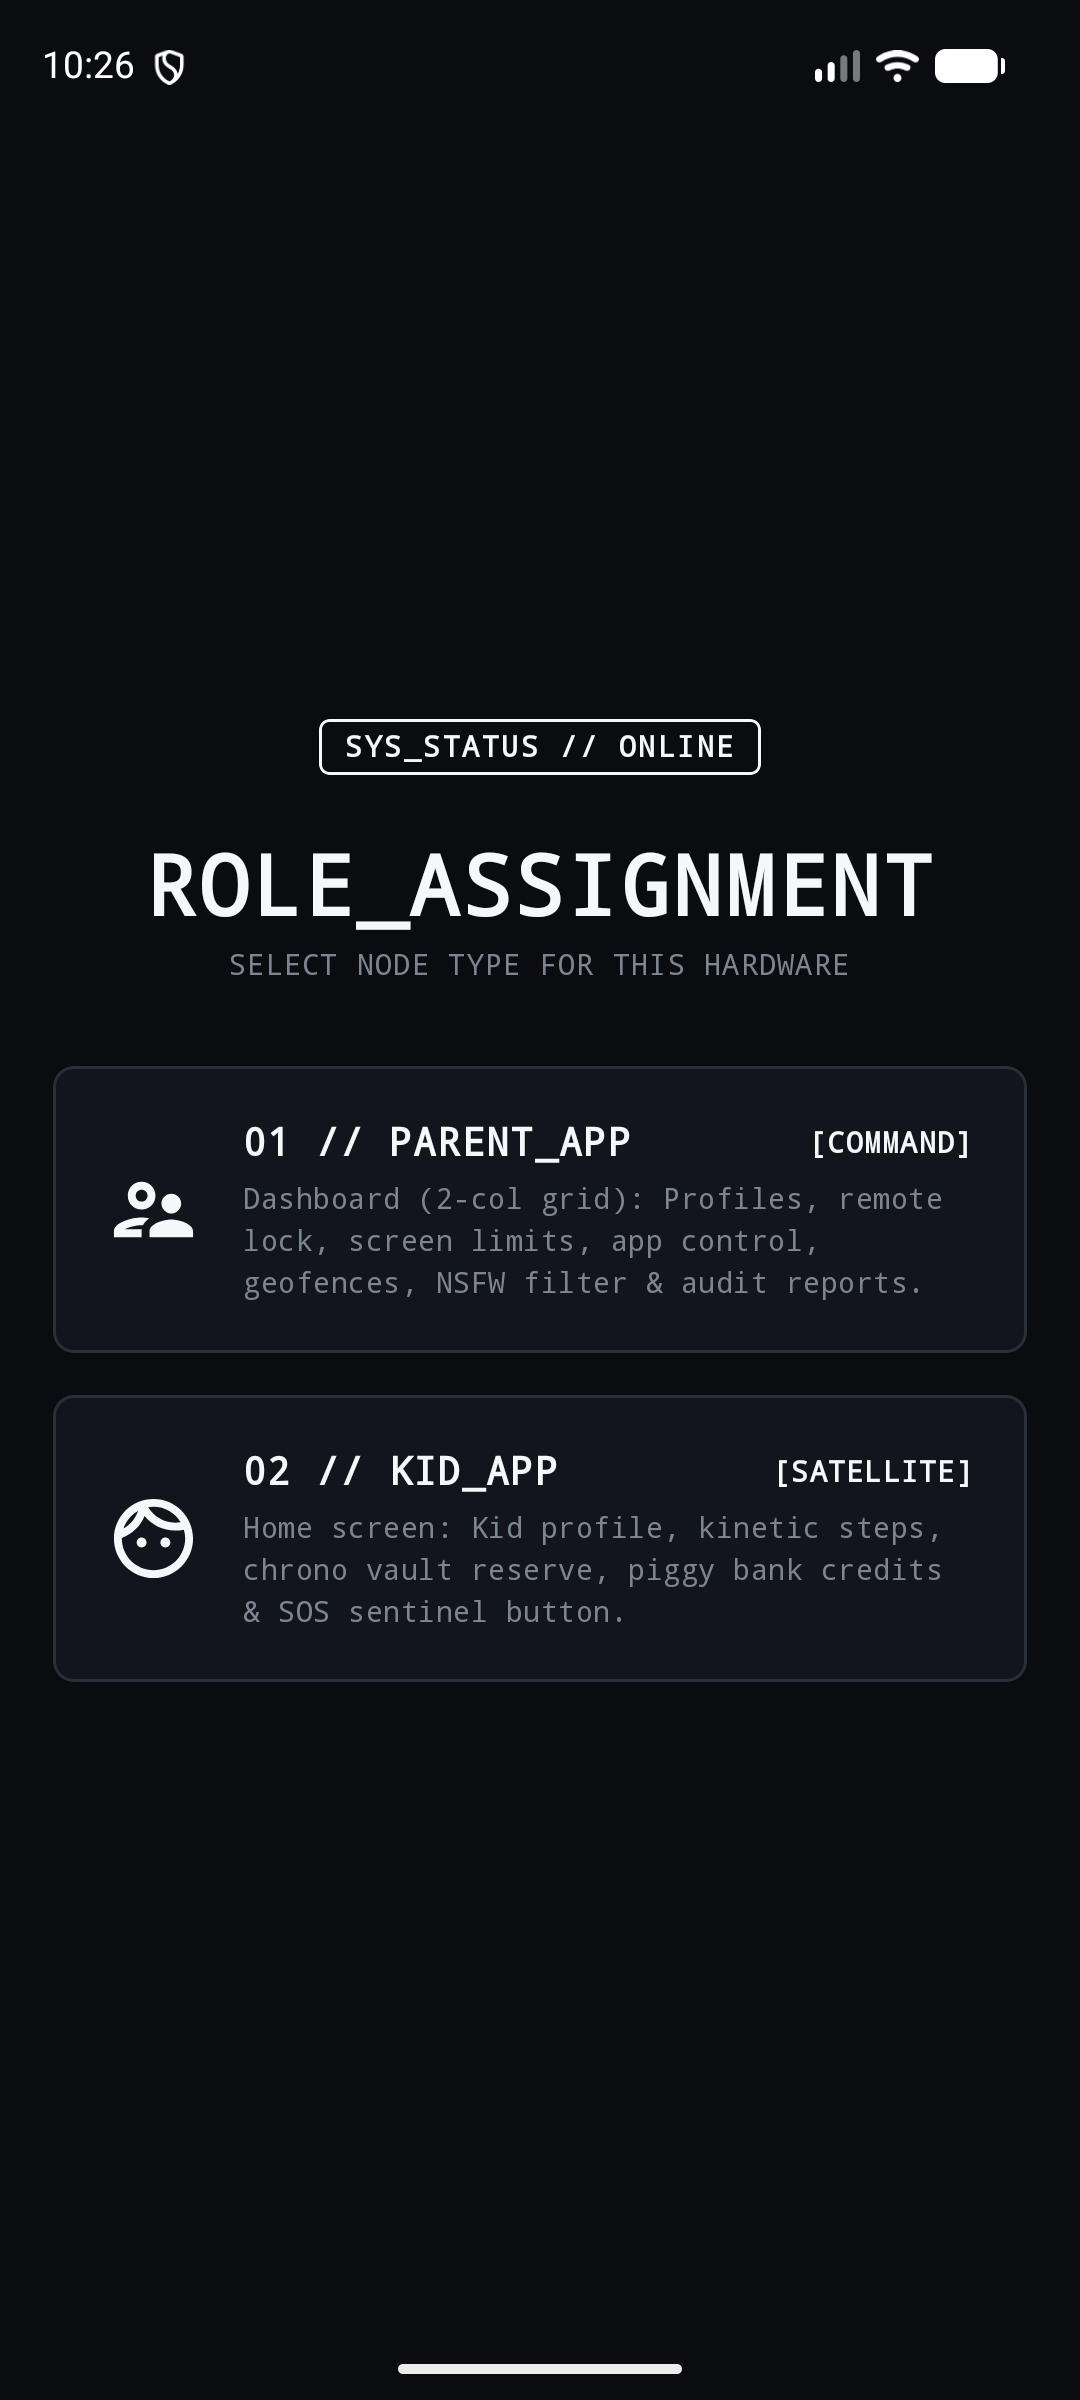
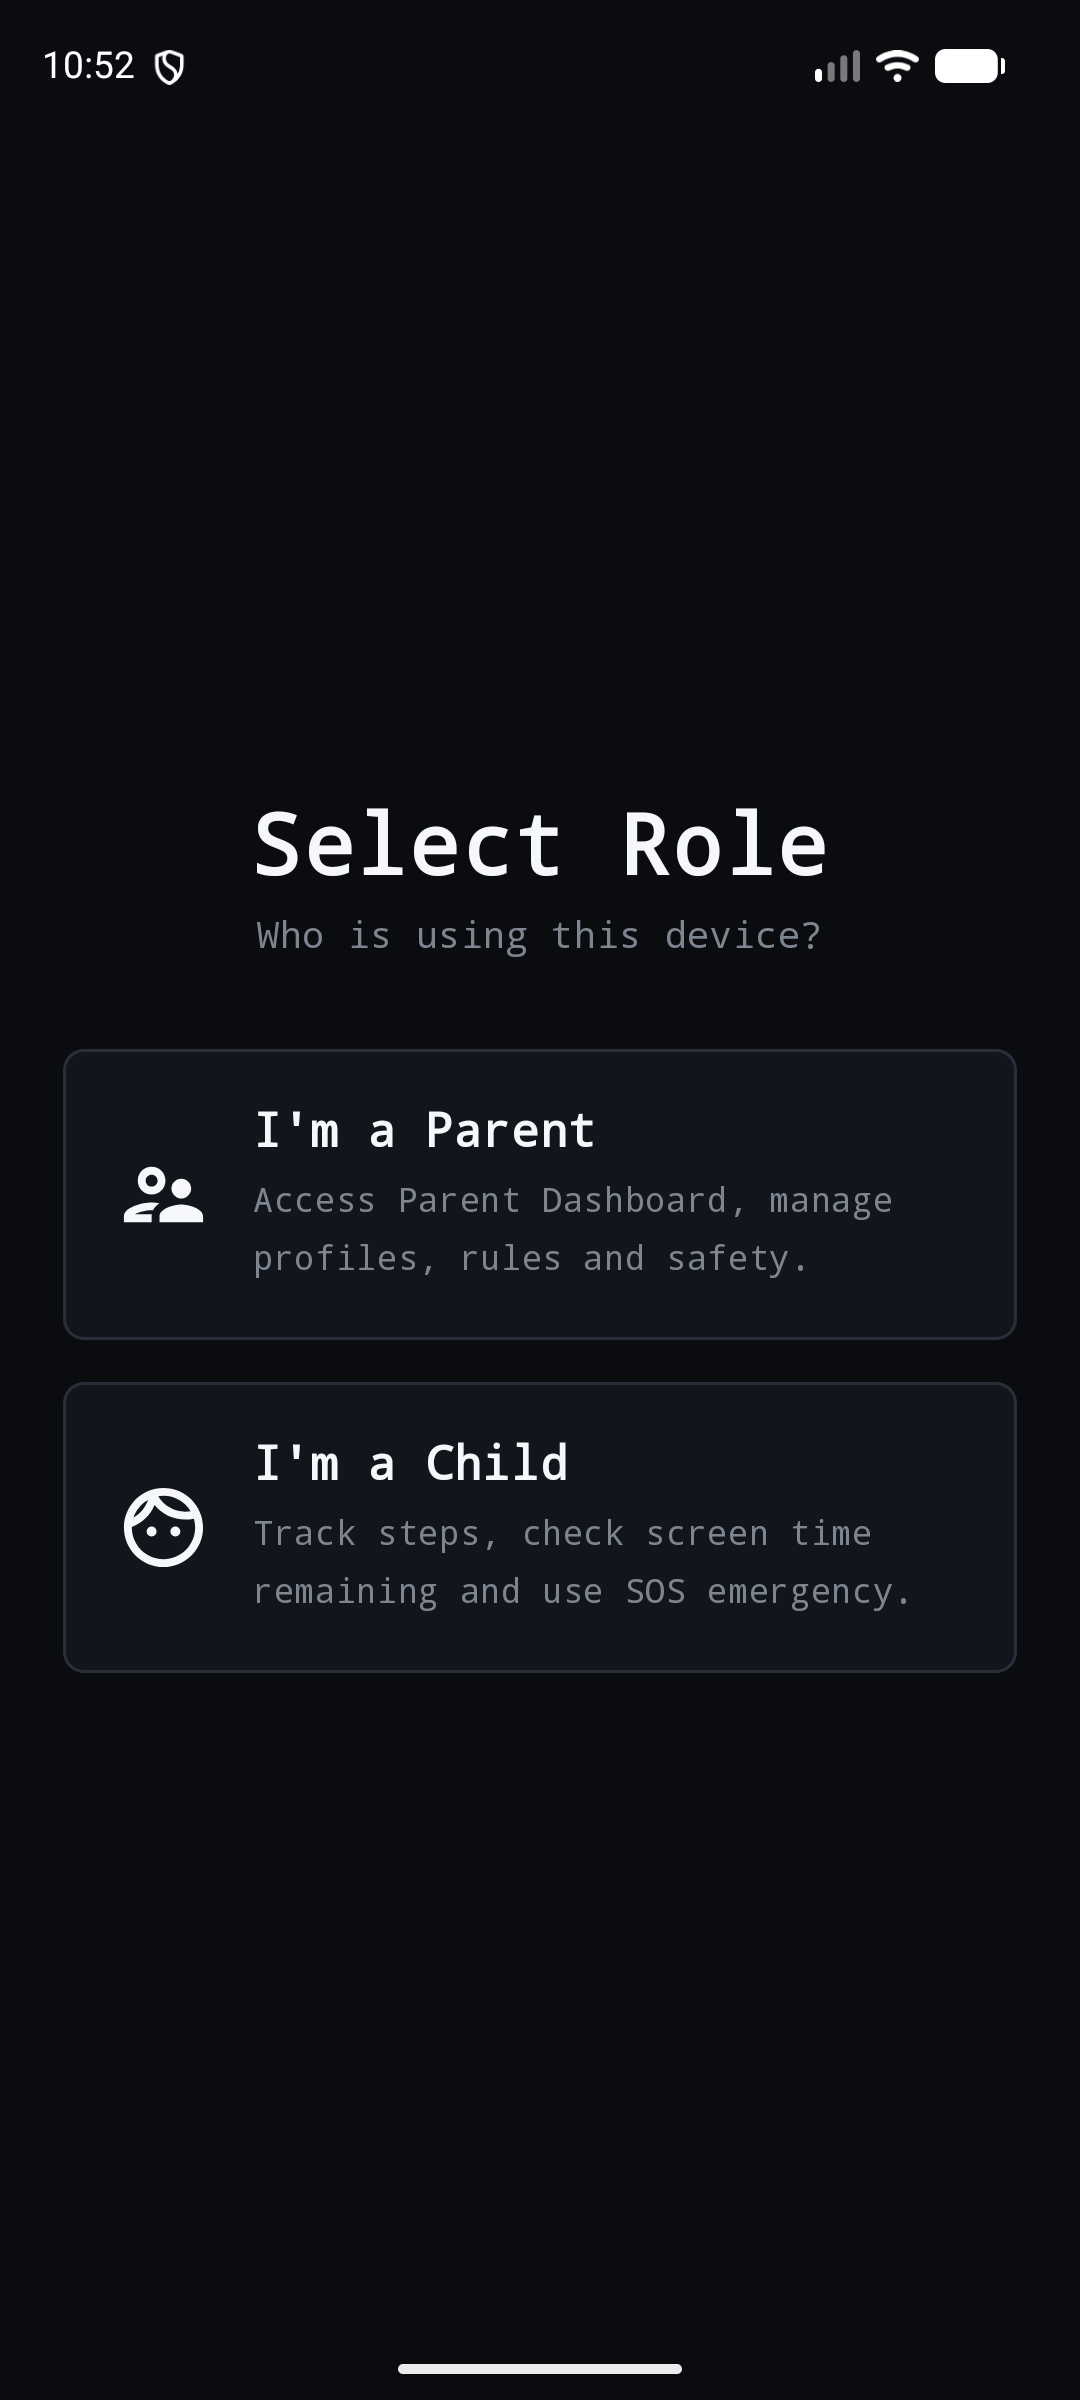
docs & ui: embed app screenshots and architecture diagrams in README, clean Child registration UI, remove private prompt files

diff --git a/app/src/main/java/com/nestcheck/app/ui/common/LoginScreen.kt b/app/src/main/java/com/nestcheck/app/ui/common/LoginScreen.kt
@@ -80,7 +80,7 @@ fun LoginScreen(
             modifier = Modifier.padding(top = 2.dp, bottom = 20.dp)
         )
 
-        // IF REGISTERING: TOGGLE BETWEEN PARENT AND STUDENT
+        // IF REGISTERING: TOGGLE BETWEEN PARENT AND CHILD
         if (uiState.isRegistering) {
             Row(
                 modifier = Modifier
@@ -109,19 +109,19 @@ fun LoginScreen(
                     )
                 }
 
-                // Register as Student
+                // Register as Child
                 Box(
                     modifier = Modifier
                         .weight(1f)
                         .fillMaxHeight()
                         .clip(RoundedCornerShape(6.dp))
-                        .background(if (uiState.registerRole == RegisterRole.STUDENT) White else Color.Transparent)
-                        .clickable { viewModel.setRegisterRole(RegisterRole.STUDENT) },
+                        .background(if (uiState.registerRole == RegisterRole.CHILD) White else Color.Transparent)
+                        .clickable { viewModel.setRegisterRole(RegisterRole.CHILD) },
                     contentAlignment = Alignment.Center
                 ) {
                     Text(
-                        text = "Register as Student",
-                        color = if (uiState.registerRole == RegisterRole.STUDENT) Black else CyberTextDim,
+                        text = "Register as Child",
+                        color = if (uiState.registerRole == RegisterRole.CHILD) Black else CyberTextDim,
                         fontWeight = FontWeight.Bold,
                         fontSize = 13.sp
                     )
@@ -351,16 +351,15 @@ fun LoginScreen(
                     }
 
                 } else {
-                    // === REGISTER AS STUDENT / CHILD ===
-                    Text("Student / Child Info", color = CyberTextBright, fontSize = 15.sp, fontWeight = FontWeight.Bold)
-                    Text("Physical metrics and daily health goals", color = CyberTextDim, fontSize = 11.sp)
+                    // === REGISTER AS CHILD ===
+                    Text("Child Details", color = CyberTextBright, fontSize = 15.sp, fontWeight = FontWeight.Bold)
 
                     Spacer(modifier = Modifier.height(14.dp))
 
                     OutlinedTextField(
                         value = uiState.childName,
                         onValueChange = viewModel::onChildNameChange,
-                        label = { Text("Student Name") },
+                        label = { Text("Child Name") },
                         singleLine = true,
                         modifier = Modifier.fillMaxWidth(),
                         colors = OutlinedTextFieldDefaults.colors(
@@ -518,14 +517,14 @@ fun LoginScreen(
                     Spacer(modifier = Modifier.height(20.dp))
 
                     Button(
-                        onClick = viewModel::registerStudent,
+                        onClick = viewModel::registerChild,
                         modifier = Modifier
                             .fillMaxWidth()
                             .height(48.dp),
                         shape = RoundedCornerShape(6.dp),
                         colors = ButtonDefaults.buttonColors(containerColor = White, contentColor = Black)
                     ) {
-                        Text("Register Student Device", fontWeight = FontWeight.Bold, fontSize = 14.sp)
+                        Text("Register Child", fontWeight = FontWeight.Bold, fontSize = 14.sp)
                     }
                 }
             }

diff --git a/app/src/main/java/com/nestcheck/app/ui/parent/dashboard/ParentDashboardScreen.kt b/app/src/main/java/com/nestcheck/app/ui/parent/dashboard/ParentDashboardScreen.kt
@@ -43,7 +43,6 @@ class ParentDashboardViewModel @Inject constructor(
 data class DashboardCard(
     val title: String,
     val subtitle: String,
-    val featureTag: String,
     val icon: ImageVector,
     val route: String
 )
@@ -55,16 +54,16 @@ fun ParentDashboardScreen(
 ) {
     val child by viewModel.childProfile.collectAsState()
 
-    // 8 sections directly matching flowchart #2
+    // 8 clean dashboard cards matching the app architecture
     val dashboardCards = listOf(
-        DashboardCard("Child profiles", "Age, weight, height, auto BMI", "F13, F20", Icons.Outlined.Person, Screen.ChildProfile.route),
-        DashboardCard("Screen time", "Daily caps, countdown, limits", "F1, F2", Icons.Outlined.Timer, Screen.ScreenTime.route),
-        DashboardCard("App control", "Block, allow, install approvals", "F3, F9", Icons.Outlined.Block, Screen.AppControl.route),
-        DashboardCard("Content safety", "Web filters, NSFW detection", "F7, F8", Icons.Outlined.Shield, Screen.ContentFilter.route),
-        DashboardCard("Location", "Live map, school/home geofence", "F10-F12", Icons.Outlined.LocationOn, Screen.Location.route),
-        DashboardCard("Credits & routines", "Award credits, homework check", "F4-F6", Icons.Outlined.Stars, Screen.Credits.route),
-        DashboardCard("Device & safety", "SOS alerts, battery, remote lock", "F15, F16", Icons.Outlined.WarningAmber, Screen.SOS.route),
-        DashboardCard("Reports & alerts", "Weekly summary, notification feed", "F17, F18", Icons.Outlined.Assessment, Screen.Reports.route)
+        DashboardCard("Child profiles", "Age, weight, height, auto BMI", Icons.Outlined.Person, Screen.ChildProfile.route),
+        DashboardCard("Screen time", "Daily caps, countdown, limits", Icons.Outlined.Timer, Screen.ScreenTime.route),
+        DashboardCard("App control", "Block, allow, install approvals", Icons.Outlined.Block, Screen.AppControl.route),
+        DashboardCard("Content safety", "Web filters, NSFW detection", Icons.Outlined.Shield, Screen.ContentFilter.route),
+        DashboardCard("Location", "Live map, school/home geofence", Icons.Outlined.LocationOn, Screen.Location.route),
+        DashboardCard("Credits & routines", "Award credits, homework check", Icons.Outlined.Stars, Screen.Credits.route),
+        DashboardCard("Device & safety", "SOS alerts, battery, remote lock", Icons.Outlined.WarningAmber, Screen.SOS.route),
+        DashboardCard("Reports & alerts", "Weekly summary, notification feed", Icons.Outlined.Assessment, Screen.Reports.route)
     )
 
     Column(
@@ -209,12 +208,10 @@ fun ParentDashboardScreen(
                         modifier = Modifier.fillMaxSize(),
                         verticalArrangement = Arrangement.SpaceBetween
                     ) {
-                        Row(
+                        Box(
                             modifier = Modifier.fillMaxWidth(),
-                            horizontalArrangement = Arrangement.SpaceBetween,
-                            verticalAlignment = Alignment.CenterVertically
+                            contentAlignment = Alignment.TopEnd
                         ) {
-                            Text(card.featureTag, color = CyberTextDim, fontSize = 10.sp, fontWeight = FontWeight.Bold)
                             Icon(card.icon, contentDescription = card.title, tint = CyberTextBright, modifier = Modifier.size(18.dp))
                         }
 

diff --git a/app/src/main/java/com/nestcheck/app/ui/common/AuthViewModel.kt b/app/src/main/java/com/nestcheck/app/ui/common/AuthViewModel.kt
@@ -16,7 +16,7 @@ import kotlin.random.Random
 
 enum class RegisterRole {
     PARENT,
-    STUDENT
+    CHILD
 }
 
 data class AuthUiState(
@@ -37,7 +37,7 @@ data class AuthUiState(
     val isOtpVerified: Boolean = false,
     val otpError: String? = null,
 
-    // Student / Child Profile Fields
+    // Child Profile Fields
     val childName: String = "Aarav",
     val childAge: String = "10",
     val childDob: String = "2014-06-15",
@@ -209,7 +209,7 @@ class AuthViewModel @Inject constructor(
         }
     }
 
-    fun registerStudent() {
+    fun registerChild() {
         val state = _uiState.value
         val age = state.childAge.toIntOrNull() ?: 10
         val weight = state.childWeight.toFloatOrNull() ?: 34f

diff --git a/README.md b/README.md
@@ -1,59 +1,77 @@
-# NestCheck - Parental Monitoring & Child Control App
+# NestCheck - Autonomous Parental Monitoring & Child Protection
 
 ![MAD Subject Project](https://img.shields.io/badge/MAD-Subject%20Project-blue)
+![Platform](https://img.shields.io/badge/Platform-Android-green)
+![Architecture](https://img.shields.io/badge/Architecture-MVVM%20%7C%20Clean-orange)
+
+**NestCheck** is a modern, cyber-minimalist Android parental telemetry and child wellbeing monitoring platform built with Jetpack Compose, Kotlin Coroutines, and MVVM Clean Architecture.
 
 **Team**: Dev Raj Murari, Rohit, Sinan
 
-## Tech Stack
-- Kotlin
-- Jetpack Compose
-- MVVM & Clean Architecture
-- Hilt (Dependency Injection)
-- Firebase (Auth, Firestore, Realtime DB, Cloud Messaging)
-- Google Maps SDK & Location Services
-- TensorFlow Lite
-- Room Database
+---
 
-## Features
-1. Parent & Kid modes
-2. Screen Time Monitoring
-3. App Blocking & Limits
-4. Real-time Location Tracking
-5. Geofencing (Home/School)
-6. Content Filtering (NSFW Detection)
-7. Step Counter & Health Goals
-8. Credit System for Rewards
-9. SOS Alerts
-10. Device Status Monitoring
-11. Homework Tasks tracker
-12. Activity Reports
-13. Daily Goal Setting
-14. Real-time Notifications
-15. Profile Management
-16. App Install Requests
-17. Customizable Dashboard
-18. Streak Tracking
-19. Minimalist B&W UI
-20. Secure Data Sync
+## 📱 App Screenshots
 
-## Architecture
-```mermaid
-graph TD
-    UI[UI Layer / Jetpack Compose] --> VM[ViewModel Layer]
-    VM --> Domain[Domain / Use Cases]
-    Domain --> Repo[Repository Layer]
-    Repo --> Firebase[Firebase / Cloud]
-    Repo --> Room[Local Database]
-    Repo --> Location[Location & Sensors]
-```
+### Onboarding, Auth & Registration
+| Login | Role Selection | Parent Register (Gmail OTP) | Child Register (Metrics & BMI) |
+| :---: | :---: | :---: | :---: |
+| <img src="docs/screenshots/login_screen.png" width="220" /> | <img src="docs/screenshots/role_selection.png" width="220" /> | <img src="docs/screenshots/parent_register_otp.png" width="220" /> | <img src="docs/screenshots/child_register.png" width="220" /> |
 
-## Setup Instructions
-1. Clone the repository
-2. Add your `google-services.json` to the `app/` folder
-3. Build and run using Android Studio Hedgehog or later
+### Dashboards & Child Device
+| Parent Dashboard | Child Home Screen | Reference Design |
+| :---: | :---: | :---: |
+| <img src="docs/screenshots/parent_dashboard.png" width="240" /> | <img src="docs/screenshots/kid_home.png" width="240" /> | <img src="docs/architecture/06_kid_ui_reference_phone.jpg" width="240" /> |
 
-## Screenshots
-*(Coming soon)*
+---
 
-## License
+## 📐 Architecture & System Flows
+
+### 1. System Architecture Overview
+<img src="docs/architecture/01_system_architecture_overview.png" width="600" />
+
+### 2. Onboarding & Device Pairing Flow
+<img src="docs/architecture/02_onboarding_and_pairing_flow.png" width="600" />
+
+### 3. Parent Dashboard Layout
+<img src="docs/architecture/03_parent_dashboard_architecture.png" width="600" />
+
+### 4. Child App Layout & Telemetry
+<img src="docs/architecture/04_kid_app_architecture.png" width="600" />
+
+### 5. Cross-Device Real-Time Synchronization
+<img src="docs/architecture/05_cross_device_realtime_sync.png" width="600" />
+
+---
+
+## 🛠 Tech Stack
+- **Language**: Kotlin 2.1.20
+- **UI Toolkit**: Jetpack Compose (Material3 Dark Cyber-Minimalist Theme)
+- **Architecture**: MVVM + Clean Architecture + Repository Pattern
+- **Dependency Injection**: Hilt (Dagger)
+- **Local Storage**: Room DB + DataStore
+- **Cloud & Auth**: Firebase Auth, Firestore, FCM (with local offline fallback)
+- **Machine Learning**: TensorFlow Lite for On-Device Content Safety
+- **Sensors & Location**: Google Play Services Location & Hardware Step Detector
+
+---
+
+## 🚀 Setup & Build Instructions
+1. Clone the repository:
+   ```bash
+   git clone https://github.com/dev-raj-murari/NestCheck.git
+   cd NestCheck
+   ```
+2. Build the debug APK:
+   ```bash
+   ./gradlew assembleDebug
+   ```
+3. Run on connected Android device or emulator:
+   ```bash
+   adb install -r app/build/outputs/apk/debug/app-debug.apk
+   adb shell am start -n com.nestcheck.app/.MainActivity
+   ```
+
+---
+
+## 📄 License
 MIT License
